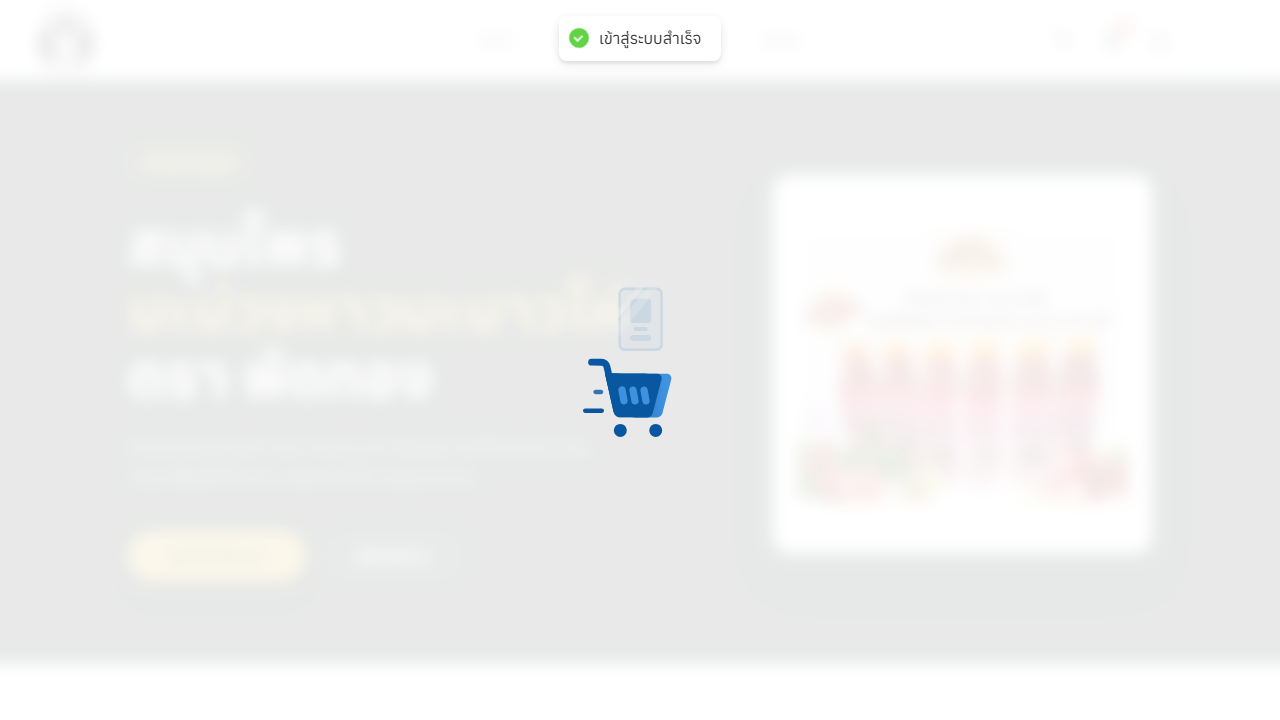
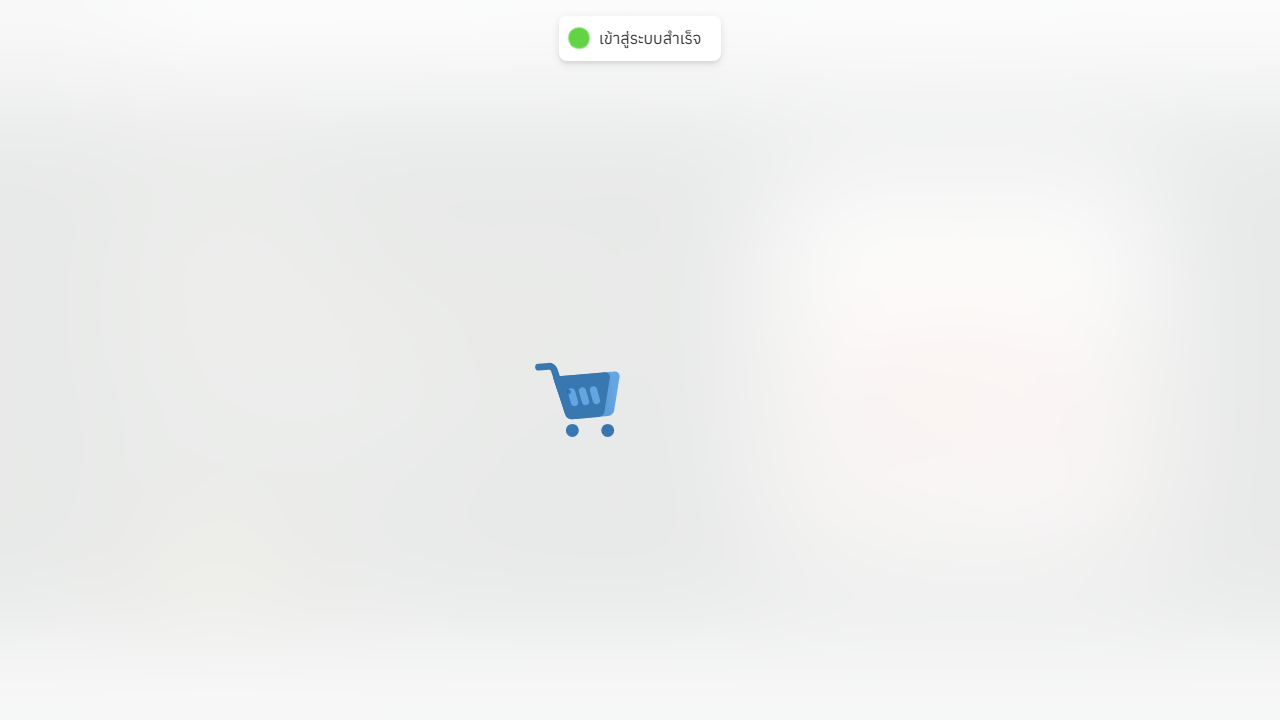
update

Changed region(s): [[0.4062, 0.3972, 0.5312, 0.6111], [0.4375, 0.0306, 0.4688, 0.0611]]

diff --git a/tests/searchProduct.spec.js b/tests/searchProduct.spec.js
@@ -1,29 +1,58 @@
-import { test, expect } from '@playwright/test';
+import { test, expect } from '../custom-test.js';
 
-test('(TC6001) ค้นหาสินค้าด้วยคำค้นหาเเละเลือกเงื่อนไขกรองสินค้า เช่น หมวดหมู่ ช่วงราคา', async ({ page }) => {
+test('(TC6001) การค้นหาสินค้าด้วย Keyword ', async ({ page }) => {
   await page.goto('https://storemate-final.vercel.app/');
-  await page.waitForLoadState('domcontentloaded');
+  await page.waitForLoadState('networkidle');
   await page.locator('[data-test="search"]').click();
   await page.locator('[data-test="search-input"]').waitFor({ state: 'visible' });
   await page.locator('[data-test="search-input"]').fill('น้ำ');
   await page.locator('[data-test="search-input"]').press('Enter');
-  await page.locator('[data-test="input-min-price"]').fill('100');
-  await page.locator('[data-test="input-max-price"]').click();
-  await page.locator('[data-test="input-max-price"]').fill('500');
-  await page.locator('[data-test="input-min-price"]').click();
+  await page.waitForLoadState('networkidle');
+  
+  const productCount =
+    await page.locator('[data-test="product-card"]').count();
+  expect(productCount).toBeGreaterThan(0);
+
 });
 
-test('(TC6002) ไม่กรอกคำค้นหาสินค้าเเต่เลือกเงื่อนไขกรอง (เลือกหมวดหมู่ ช่วงราคา)', async ({ page }) => {
+test('(TC6002) การค้นหาสินค้าโดยใช้หมวดหมู่แบบไม่ระบุ Keyword', async ({ page }) => {
   await page.goto('https://storemate-final.vercel.app/search');
-  await page.waitForLoadState('domcontentloaded');
-  await page.locator('[data-test="input-search"]').waitFor({ state: 'visible' });
+  await page.waitForLoadState('networkidle');
   await page.locator('[data-test="category-drink"]').click();
-  await page.locator('[data-test="input-min-price"]').fill('100');
-  await page.locator('[data-test="input-max-price"]').click();
-  await page.locator('[data-test="input-max-price"]').fill('500');
   await page.locator('[data-test="apply-price-filter"]').waitFor({ state: 'visible' });
   await page.locator('[data-test="apply-price-filter"]').click();
-
 });
 
+test('(TC6003) ไม่พบรายการสินค้าที่ค้นหา ', async ({ page }) => {
+  await page.goto('https://storemate-final.vercel.app/search');
+  await page.waitForLoadState('networkidle');
+  await page.locator('[data-test="input-search"]').fill('มือถือ');
+  await page.locator('[data-test="apply-price-filter"]').click();
+  await expect(page.getByText('ไม่พบสินค้าที่คุณค้นหา')).toBeVisible();
+});
 
+test('(TC6004) การกรองสินค้าด้วยช่วงราคา  ', async ({ page }) => {
+  await page.goto('https://storemate-final.vercel.app/search');
+  await page.waitForLoadState('networkidle');
+  await page.locator('[data-test="input-min-price"]').click();
+  await page.locator('[data-test="input-min-price"]').fill('35');
+  await page.locator('[data-test="input-max-price"]').click();
+  await page.locator('[data-test="input-max-price"]').fill('500');
+  await page.locator('[data-test="apply-price-filter"]').click();
+  
+  await page.waitForLoadState('networkidle');
+
+  const prices = await page.locator('p.font-bold.text-blue-500').allTextContents()
+  expect(prices.length).toBeGreaterThan(0);
+
+  for (const priceText of prices) {
+
+    const price = Number(
+      priceText.replace(/[^\d]/g, '')
+    );
+
+    expect(price).toBeGreaterThanOrEqual(35);
+
+    expect(price).toBeLessThanOrEqual(500);
+  }
+});

diff --git a/tests/addToCart.spec.js b/tests/addToCart.spec.js
@@ -1,12 +1,52 @@
-import { test, expect } from '@playwright/test';
+import { test, expect } from '../custom-test.js';
 
-test('(TC)', async ({ page }) => {
+test('(TC8001) ผู้ใช้งานสามารถเพิ่มสินค้าเข้ารถเข็นได้สำเร็จ ', async ({ page }) => {
   await page.goto('https://storemate-final.vercel.app/');
   await page.waitForLoadState('domcontentloaded');
-  await page.getByText('น้ำมะม่วงหาวมะนาวโห่ สูตรไม่มีน้ำตาล 30 ขวด ตราพัดทอง').waitFor({ state: 'visible' });
   await expect(page.getByText('น้ำมะม่วงหาวมะนาวโห่ สูตรไม่มีน้ำตาล 30 ขวด ตราพัดทอง')).toBeVisible();
   await page.getByText('น้ำมะม่วงหาวมะนาวโห่ สูตรไม่มีน้ำตาล 30 ขวด ตราพัดทอง').click();
   await page.locator('[data-test="btn-add-to-cart"]').waitFor({ state: 'visible' });
   await page.locator('[data-test="btn-add-to-cart"]').click();
   await expect(page.getByRole('status')).toContainText('เพิ่มสินค้าเข้ารถเข็นเรียบร้อยแล้ว');
+  await expect(page.locator('[data-test="click-shop-cart"]')).toHaveText('1');
+});
+
+test('(TC8002) บังคับ Login ก่อนเพิ่มสินค้าเข้ารถเข็น ', async ({ page,context }) => {
+  await context.clearCookies();
+  await page.goto('https://storemate-final.vercel.app/');
+  await page.waitForLoadState('domcontentloaded');
+  await expect(page.getByText('น้ำมะม่วงหาวมะนาวโห่ สูตรไม่มีน้ำตาล 30 ขวด ตราพัดทอง')).toBeVisible();
+  await page.getByText('น้ำมะม่วงหาวมะนาวโห่ สูตรไม่มีน้ำตาล 30 ขวด ตราพัดทอง').click();
+  await page.locator('[data-test="btn-add-to-cart"]').waitFor({ state: 'visible' });
+  await page.locator('[data-test="btn-add-to-cart"]').click();
+  await expect(page.getByRole('status')).toContainText('กรุณาเข้าสู่ระบบก่อนเพิ่มสินค้าลงรถเข็น');
+  await expect(page).toHaveURL(/login/);
+});
+
+test('(TC8003) จำนวนสินค้าในสต็อกไม่เพียงพอเข้ารถเข็น ', async ({ page }) => {
+  await page.goto('https://storemate-final.vercel.app/');
+  await page.waitForLoadState('domcontentloaded');
+  await expect(page.getByText('น้ำมะม่วงหาวมะนาวโห่ สูตรไม่มีน้ำตาล 30 ขวด ตราพัดทอง')).toBeVisible();
+  await page.getByText('น้ำมะม่วงหาวมะนาวโห่ สูตรไม่มีน้ำตาล 30 ขวด ตราพัดทอง').click();
+  await page.locator('[data-test="btn-add-to-cart"]').waitFor({ state: 'visible' });
+  
+  for (let i = 0; i < 9; i++) {
+    await page.locator('[data-test="btn-increase"]').click();
+  }
+
+ await expect(page.getByText('จำนวนสินค้าในสต็อกไม่เพียงพอ').first()).toBeVisible();
+});
+
+test('(TC8004) เพิ่มสินค้าเกินจำนวนที่มีอยู่ในสต็อก ', async ({ page }) => {
+  await page.goto('https://storemate-final.vercel.app/');
+  await page.waitForLoadState('domcontentloaded');
+  await expect(page.getByText('น้ำมะม่วงหาวมะนาวโห่ สูตรไม่มีน้ำตาล 30 ขวด ตราพัดทอง')).toBeVisible();
+  await page.getByText('น้ำมะม่วงหาวมะนาวโห่ สูตรไม่มีน้ำตาล 30 ขวด ตราพัดทอง').click();
+  await page.locator('[data-test="btn-add-to-cart"]').waitFor({ state: 'visible' });
+  for (let i = 0; i < 4; i++) {
+    await page.locator('[data-test="btn-increase"]').click();
+  }
+  await page.locator('[data-test="btn-add-to-cart"]').click();
+
+ await expect(page.getByText('ไม่สามารถเพิ่มจำนวนสินค้าได้ เนื่องจากคุณเพิ่มสินค้านี้ไว้ในรถเข็นเเล้ว 2 ชิ้น').first()).toBeVisible();
 });

diff --git a/tests/product-list.spec.js b/tests/product-list.spec.js
@@ -1,5 +1,35 @@
-import { test, expect } from '@playwright/test';
+import { test, expect } from '../custom-test.js'; 
 
-test('(TC5001)', async ({ page }) => {
-    await page.goto('https://storemate-final.vercel.app/');
+test('(TC5001) ดูรายการสินค้าตามหมวดหมู่ ', async ({ page }) => {
+  await page.goto('https://storemate-final.vercel.app');
+  await page.waitForLoadState('networkidle');
+   const categories = [
+    'promotion-section',
+    'soap-section',
+    'drinks-section',
+    'shampoo-section',
+  ]
+  for (const category of categories) {
+
+    const categorySection = page.locator(`[id="${category}"]`);
+    await expect(categorySection).toBeVisible();
+  
+    const products = categorySection.locator('[data-test="product-card"]');
+    await products.first().waitFor({ state: 'visible' });
+
+    const productCount = await products.count();
+
+    expect(productCount).toBeGreaterThan(0);
+
+    expect(productCount).toBeLessThanOrEqual(4);
+  }
+
 });
+
+test('(TC5002 การแสดงข้อความเเจ้งเตือนเมื่อไม่มีสินค้าในหมวดหมู่  ', async ({ page }) => {
+  await page.goto('https://storemate-final.vercel.app');
+  await page.waitForLoadState('networkidle');
+  await page.locator('[id="soap-section"]').waitFor({ state: 'visible' });
+  await expect(page.locator('[id="soap-section"]')).toContainText('ไม่พบรายการสินค้า');
+});
+

diff --git a/tests/profile.spec.js b/tests/profile.spec.js
@@ -1,11 +1,33 @@
-import { test, expect } from '@playwright/test';
+import { test, expect } from '../custom-test.js';
 
-test('(TC5001)', async ({ page }) => {
+test('(TC11001) ผู้ใช้งานสามารถเข้าหน้าโปรไฟล์และแสดงข้อมูลโปรไฟล์ครบถ้วน', async ({ page }) => {
     await page.goto('https://storemate-final.vercel.app/profile');
     await page.waitForLoadState('domcontentloaded');
-    await page.locator('[data-test="profile-name"]').waitFor({ state: 'visible' });
-    await expect(page.locator('[data-test="profile-name"]')).toHaveText('บีแอล ยืมเทสถาวร');
-    await expect(page.locator('[data-test="profile-email"]')).toHaveText('[email redacted]');
-    await expect(page.locator('[data-test="profile-phone"]')).toHaveText('[phone redacted]');
-    // await expect(page.locator('[data-test="profile-name"]')).toHaveText('บีแอล ยืมเทสถาวร');
+    await expect(page.locator('[data-test="profile-image"]')).toBeVisible();
+    await expect(page.locator('[data-test="profile-name"]')).toBeVisible();
+    await expect(page.locator('[data-test="profile-email"]')).toBeVisible();
+    await expect(page.locator('[data-test="profile-phone"]')).toBeVisible();
+    await expect(page.locator('[data-test="profile-created-at"]')).toBeVisible();
 });
+
+test('(TC11002) อีเมลแสดงแค่สามตัวเเรกและรูปแบบอีเมล', async ({ page }) => {
+    await page.goto('https://storemate-final.vercel.app/profile');
+    await page.waitForLoadState('domcontentloaded');
+    const emailText = (await page.locator('[data-test="profile-email"]').textContent())?.trim();
+    expect(emailText).toMatch(/^[^\s@]+@[^\s@]+\.[^\s@]+$/);
+    expect(emailText).toContain('*');
+    expect(emailText).toMatch(/\*/);
+});
+
+test('(TC11003) แสดงเบอร์โทรศัพท์แค่สองตัวท้าย', async ({ page }) => {
+    await page.goto('https://storemate-final.vercel.app/profile');
+    await page.waitForLoadState('domcontentloaded');
+    const phone = (await page.locator('[data-test="profile-phone"]').textContent())?.trim();
+    expect(phone).toContain('*');
+    expect(phone).toMatch(/\d{2}$/);
+    expect(phone.slice(-2)).not.toContain('*');
+    const front = phone.slice(0, -2);
+    expect(front).toMatch(/[*-]+/);
+    expect(phone.length).toBeLessThan(12)
+});
+

diff --git a/custom-test.js b/custom-test.js
@@ -1,0 +1,35 @@
+import { test as base, expect } from '@playwright/test';
+import path from 'path';
+
+export const test = base.extend({
+  // สร้าง Auto Fixture ดักจับเมื่อเทสจบ
+  autoScreenshot: [async ({ page }, use, testInfo) => {
+    // ปล่อยให้สเต็ปการเทสปกติรันไปจนเสร็จสิ้น
+    await use();
+
+    // --- ส่วนนี้จะทำงานทันทีหลังจบแต่ละเทสเคส (เหมือน afterEach) ---
+
+    // 1. ดึงชื่อไฟล์ Spec (เช่น login.spec.js)
+    const specFileName = path.basename(testInfo.file); 
+    // 2. ตัดนามสกุลไฟล์ออกเพื่อใช้ทำชื่อโฟลเดอร์หลัก (เช่น login.spec)
+    const specFolderName = specFileName.replace(/\.[^/.]+$/, ""); 
+
+    // 3. ดึงสถานะของเทส (จะได้ค่าเป็น 'passed', 'failed', หรือ 'timedOut')
+    // เราเอามาแปลงให้เป็นชื่อโฟลเดอร์ที่อ่านง่ายๆ เช่น 'PASSED' หรือ 'FAILED'
+    const statusFolderName = testInfo.status === 'passed' ? 'PASSED' : 'FAILED';
+
+    // 4. ตั้งชื่อรูปภาพให้นูน (ควรใส่ timestamp เพื่อป้องกันรูปทับกันด้วยครับ)
+    const timestamp = new Date().toISOString().replace(/[:.]/g, '-'); // วัน-เวลา แบบคลีนๆ
+    const cleanTitle = testInfo.title.replace(/[^a-zA-Z0-9]/g, '_'); // ชื่อเทสแบบไม่มีอักขระพิเศษ
+    const screenshotName = `${cleanTitle}_${timestamp}.png`;
+
+    // 5. สั่งแคปหน้าจอลงโครงสร้างโฟลเดอร์แบบ 3 ชั้น:
+    // screenshots -> ชื่อ Spec File -> สถานะ (PASS/FAIL) -> ชื่อรูป
+    await page.screenshot({
+      path: `screenshots/${specFolderName}/${statusFolderName}/${screenshotName}`,
+      fullPage: true // แนะนำให้เปิดไว้ จะได้เห็นทั้งหน้าจอครับ
+    });
+  }, { auto: true }], // auto: true สั่งให้เปิดใช้งานอัตโนมัติในทุกเทสเคส
+});
+
+export { expect };

diff --git a/playwright.config.js b/playwright.config.js
@@ -32,12 +32,13 @@ export default defineConfig({
   /* Reporter to use. See https://playwright.dev/docs/test-reporters */
   reporter: 'html',
   /* Shared settings for all the projects below. See https://playwright.dev/docs/api/class-testoptions. */
+  // outputDir: 'results-folder',
   use: {
     actionTimeout: 60000,
     navigationTimeout: 60000,
     /* Base URL to use in actions like `await page.goto('')`. */
     // baseURL: 'http://localhost:3000',
-    screenshot: 'on',
+    // screenshot: 'on',
     // storageState: 'state.json',
     testIdAttribute: 'data-test',
   headless: true,

diff --git a/tests/login.spec.js b/tests/login.spec.js
@@ -1,4 +1,4 @@
-import { test, expect } from '@playwright/test';
+import { test, expect } from '../custom-test.js';
 
 test('test login success', async ({ page }) => {
   await page.goto('https://storemate-final.vercel.app/');
@@ -9,5 +9,4 @@ test('test login success', async ({ page }) => {
   await page.locator('[data-test="password"]').fill('Natthakan6221');
   await page.locator('[data-test="btn-submit"]').click();
   await expect(page.getByRole('status')).toContainText('เข้าสู่ระบบสำเร็จ');
-  await page.screenshot({ path: 'login-success.png' });
 });

diff --git a/tests/auth.setup.js b/tests/auth.setup.js
@@ -1,4 +1,4 @@
-import { test as setup, expect } from '@playwright/test';
+import { test as setup, expect } from '../custom-test.js';
 import path from 'path';
 
 const authFile = path.join(__dirname, '../playwright/.auth/user.json');

diff --git a/tests/order.spec.js b/tests/order.spec.js
@@ -1,4 +1,4 @@
-import { test, expect } from '@playwright/test';
+import { test, expect } from '../custom-test.js';
 
 test('test login success', async ({ page }) => {
   await page.goto('https://storemate-final.vercel.app/shopping-cart');

diff --git a/tests/register.spec.js b/tests/register.spec.js
@@ -1,4 +1,4 @@
-import { test, expect } from '@playwright/test';
+import { test, expect } from '../custom-test.js';
 
 test('(TC1001) การสมัครสมาชิก ', async ({ page }) => {
   await page.goto('https://storemate-final.vercel.app/');